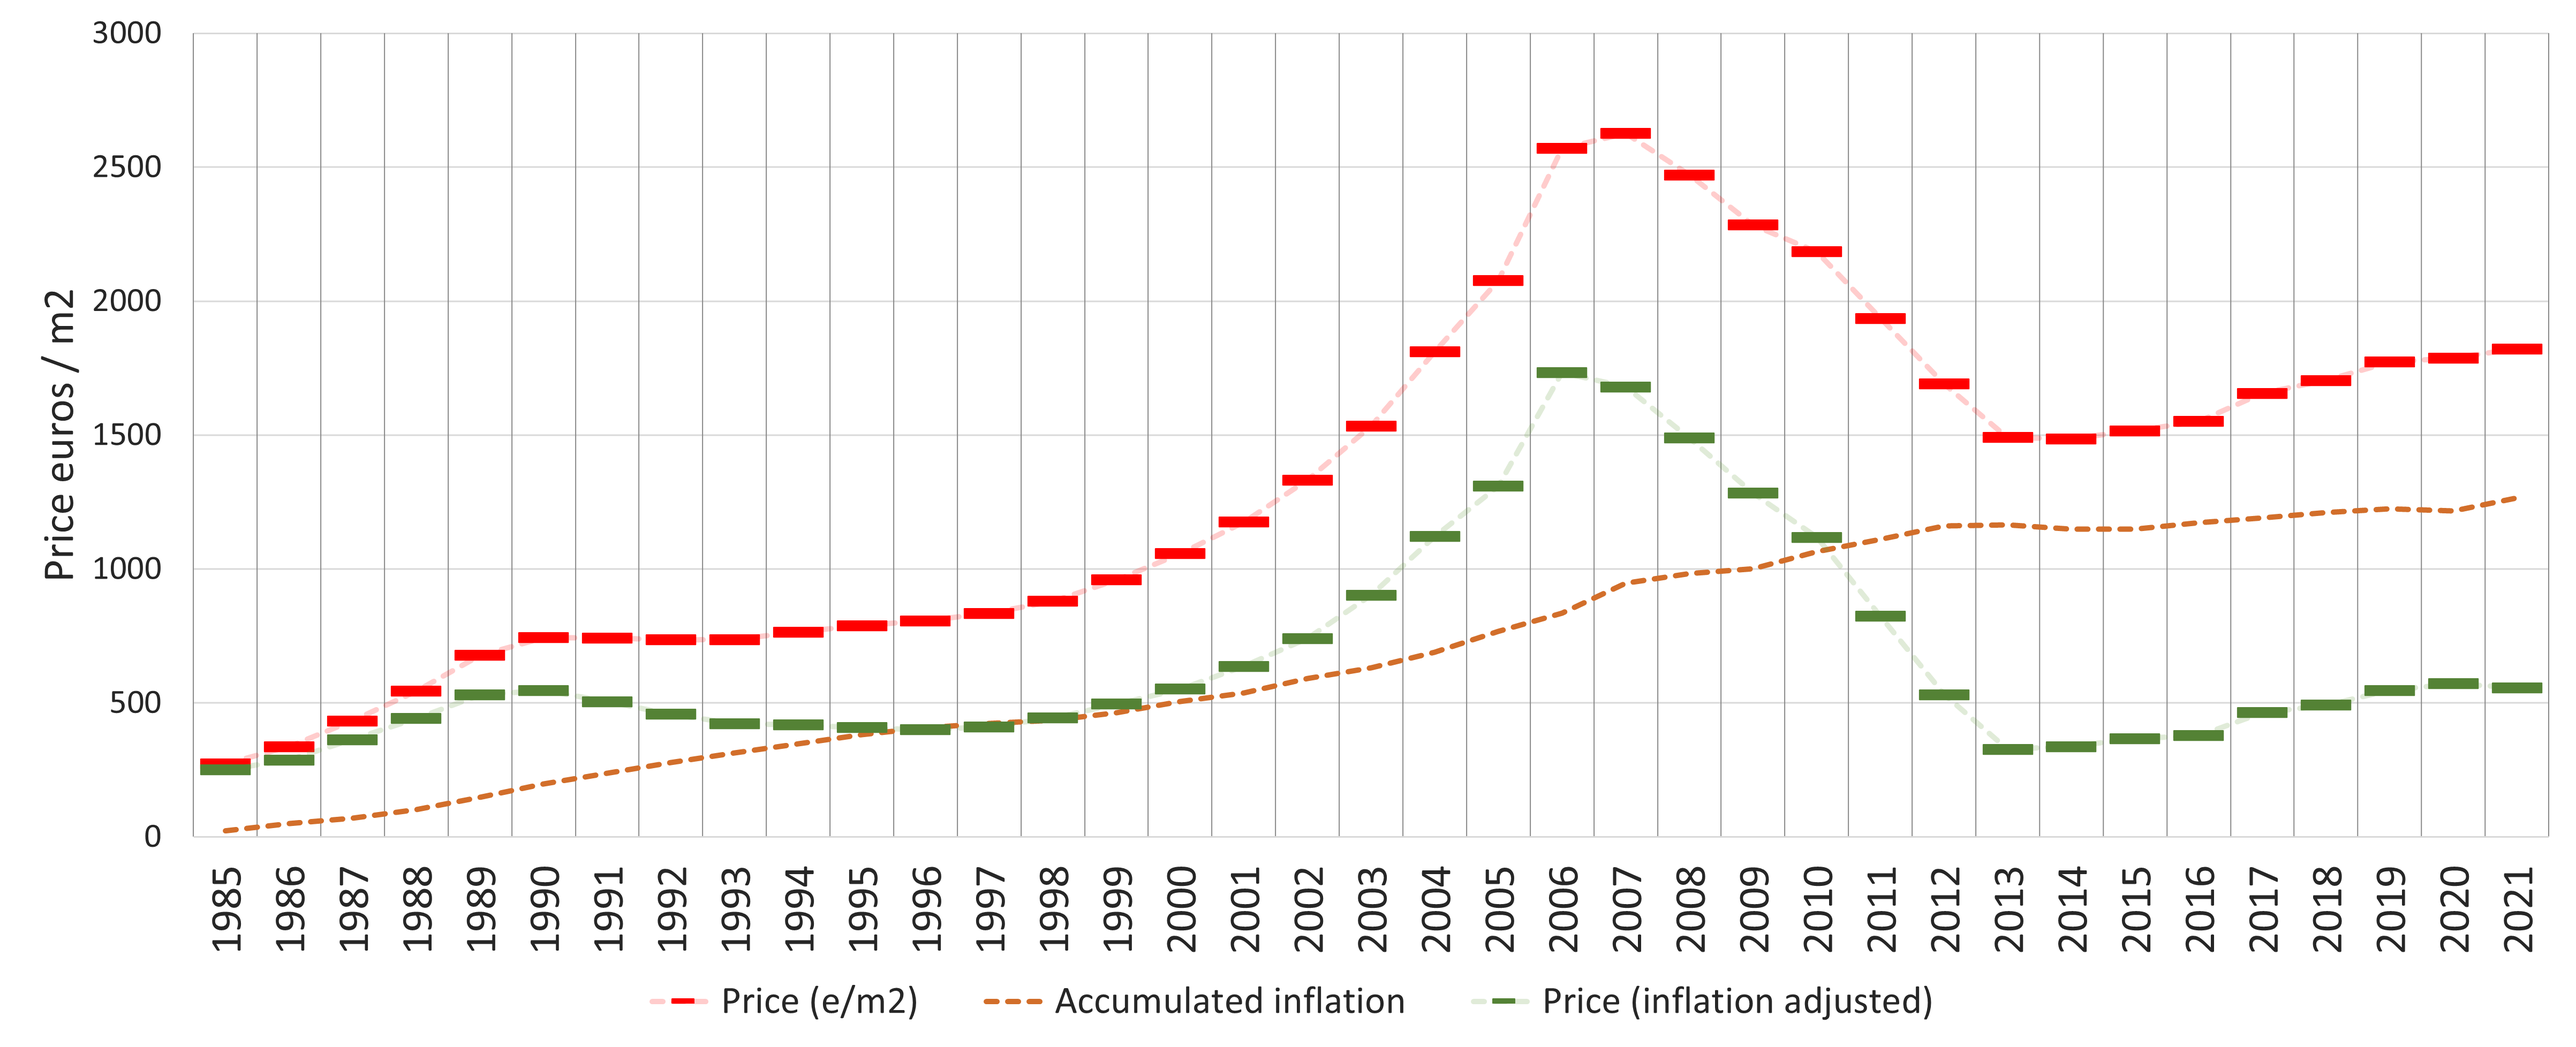
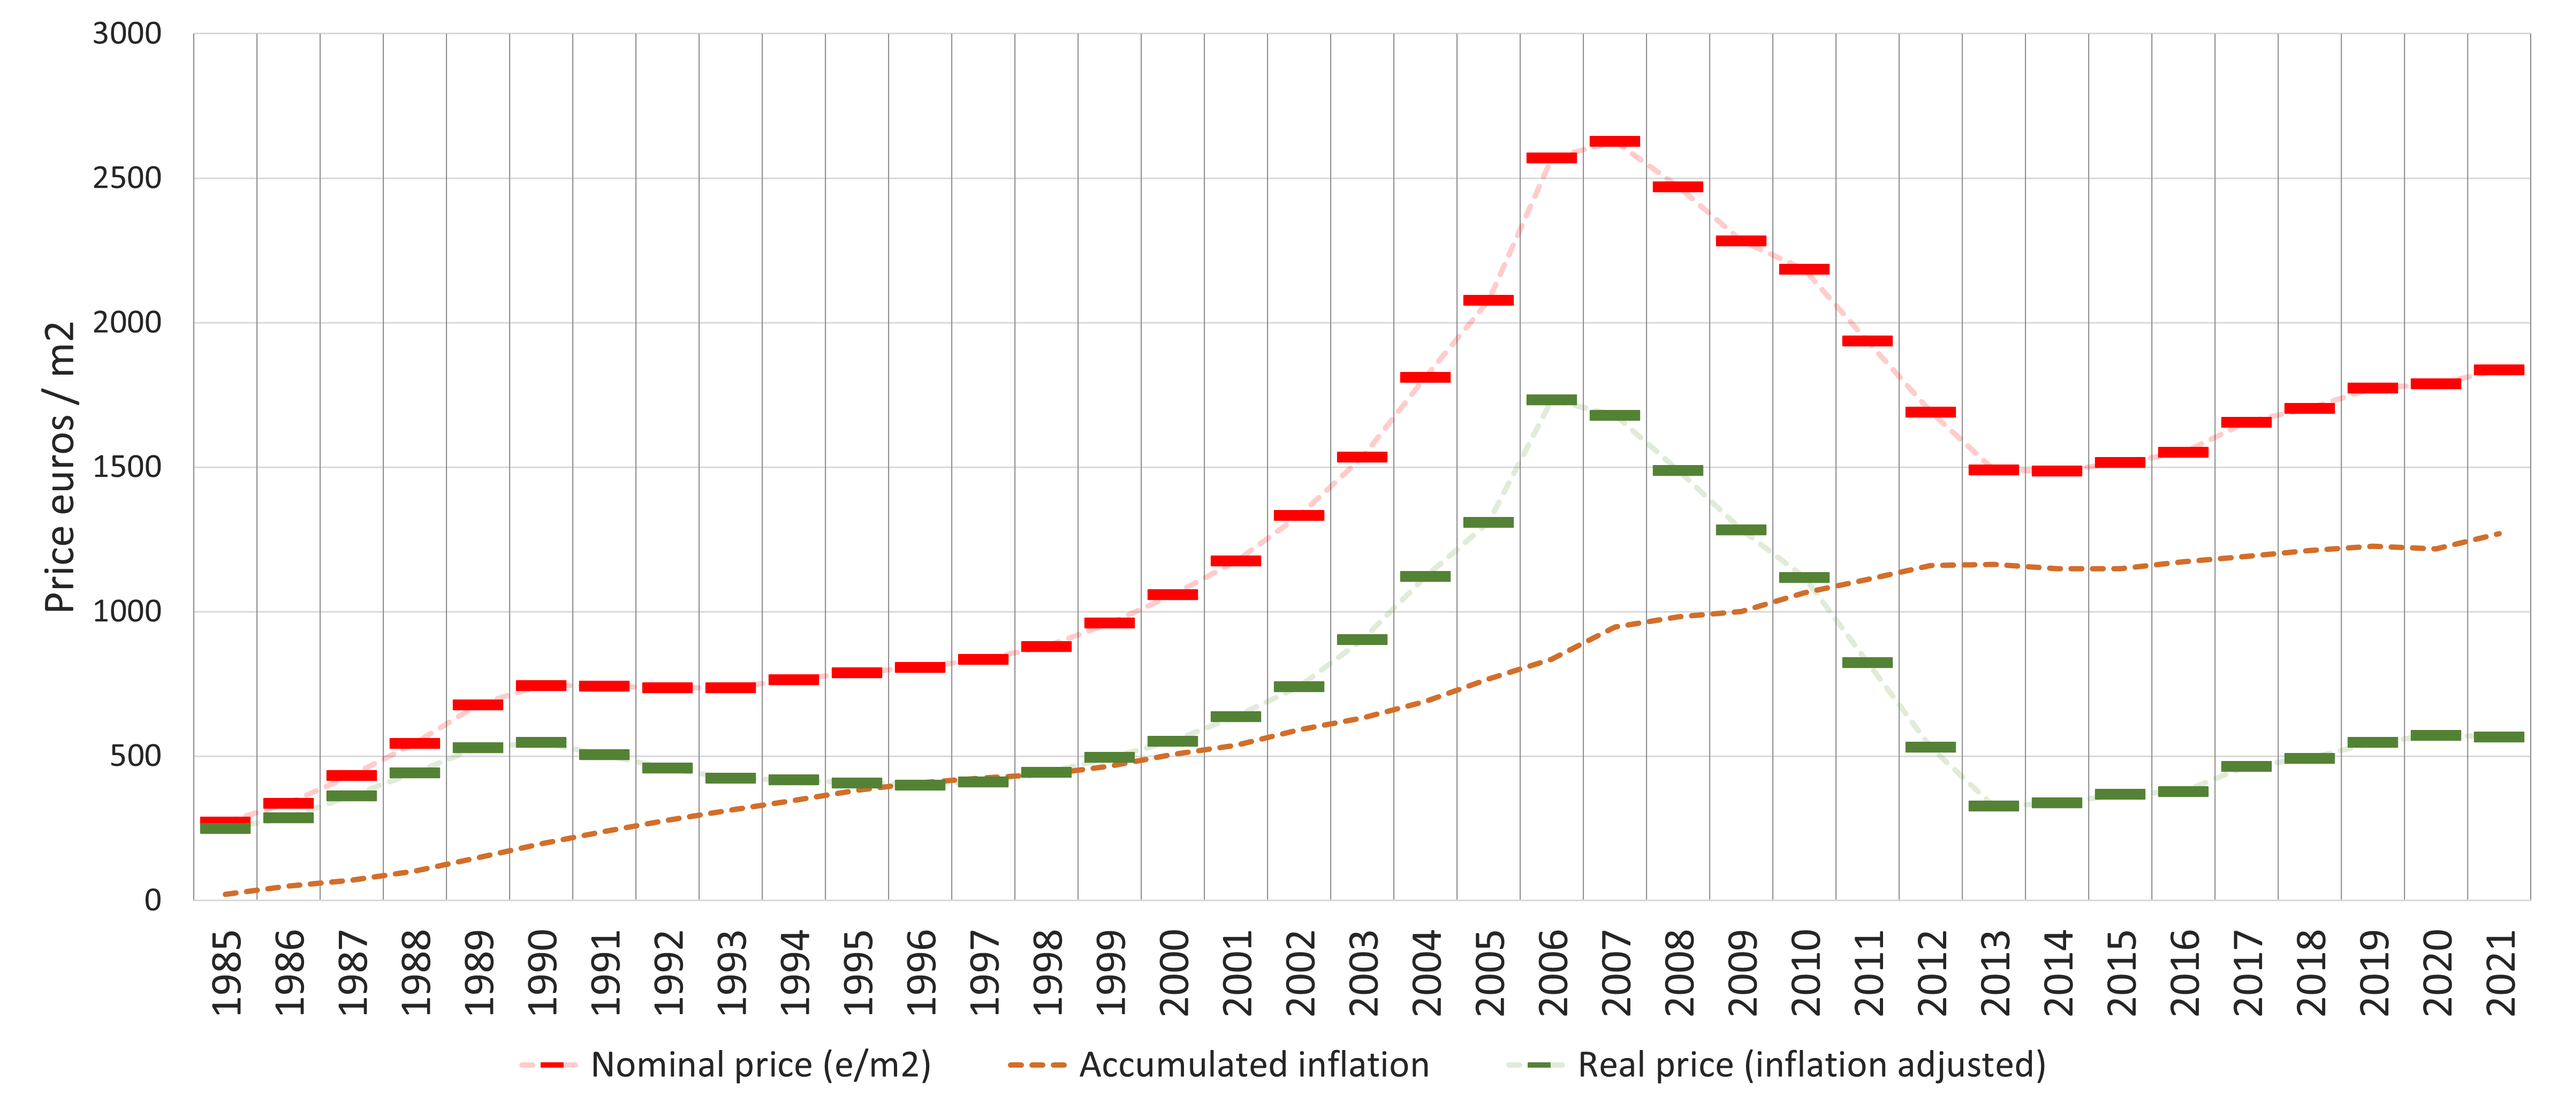
catup

diff --git a/pages/posts/six.md b/pages/posts/six.md
@@ -21,9 +21,9 @@ The model groups together the six variables that I consider essential in order t
 
 - **Observation A**: We can see how inflation has been decreasing. In 1989 it was above 5%, and in 2020 it was negative (the red area is below 0%).
 - **Observation B**: We can see how the population has been decreasing on a yearly basis since 2010. On the other hand, between 2002 and 2006, the population increased a lot, due to an immigration wave.
-- **Observation C**: We can observe that when unemployment increases, the evolution of the price of housing tends to be negative, both taking into account inflation (+i) and not (-i).
-- **Observation D**: It is interesting to note how between 1986 and 1990 the rise in house prices was dominated by high inflation. We know this because the price bar is completely black, price (+i) is overlapping completely the price (-i).
-- **Observation E**: The orange bar, price (-i), informs us of the de/revaluation of housing. For example, in 2013, there was a strong devaluation, and in 2017 a strong revaluation.
+- **Observation C**: We can observe that when unemployment increases, the evolution of the price of housing tends to be negative, both taking into account nominal and real price.
+- **Observation D**: It is interesting to note how between 1986 and 1990 the rise in house prices was dominated by high inflation. We know this because the price bar is completely black, nominal price is overlapping completely the real price.
+- **Observation E**: The orange bar, real price, informs us of the de/revaluation of housing. For example, in 2013, there was a strong devaluation, and in 2017 a strong revaluation.
 
 # Data sources
 

diff --git a/pages/posts/price.md b/pages/posts/price.md
@@ -12,7 +12,7 @@ import Image from 'next/image'
 
 ![Reload chart](/images/preuhistoric.png)
 
-- **House prices in Catalonia since 1985**: in euros per square meter, inflation-adjusted (real value), unadjusted (nominal value), and accumulated inflation.
+- **House prices in Catalonia since 1985**: in euros per square meter, inflation-adjusted (real price), unadjusted (nominal price), and accumulated inflation.
 
 # Interpretation and observations
 
@@ -20,7 +20,7 @@ The chart from above shows the average annual house price in Catalonia. Some bri
 
 - **Observation A**: The price of housing is constantly rising due to inflation, a consequence of current monetary policy.
 - **Observation B**: The uptrend in house prices is however cyclical, with moments of expansion and recession, linked to debt cycles.
-- **Observation C**: The cycles are easily visible if we look at the line representing the price (inflation-adjusted). It allows us to see, for example, the magnitude of the real-estate bubble from the early 2000s.
+- **Observation C**: The cycles are easily visible if we look at the line representing the real price (inflation-adjusted). It allows us to see, for example, the magnitude of the real-estate bubble from the early 2000s.
 
 # Data sources
 

diff --git a/pages/posts/stock.md b/pages/posts/stock.md
@@ -26,7 +26,7 @@ The first chart from above shows the number of new homes built annually since 19
 - **Observation A**: The number of new dwellings remained almost always above 40 thousand dwellings, until the year 2009, when it dropped drastically to 10 thousand new dwellings per year.
 - **Observation B**: The number of dwellings per 1000 inhabitants increased from 1971 to 2000, since then it stagnated. Currently is on decline.
 
-The second chart shows the today existing homes by period of construction. Most of the existing houses in Catalonia today were built between the 1961 and 1980. Finally, if the pace of new construction continues at the rate shown between 2010 and 2020. Between 2021 and 2040, the number of houses to be built will be of 57200.
+The second chart shows the today existing homes by period of construction. Most of the existing houses in Catalonia today were built between the 1961 and 1980. Finally, if the pace of new construction continues at the rate shown between 2010 and 2020. Between 2021 and 2040, the number of houses to be built will be of ≈198.000.
 
 # Data sources
 

diff --git a/pages/posts/volume.md b/pages/posts/volume.md
@@ -17,7 +17,7 @@ import Image from 'next/image'
 
 # Interpretation and observations
 
-The chart from above shows the number of home sales per quarter. The color indicates whether the number of sales is lower than the previous quarter (red) or higher (green). The black line represents the notarial price. Thus, we can see if the number of sales is going up or down, in combination with price movement. Some observations:
+The chart from above shows the number of home sales per quarter. The color indicates whether the number of sales is lower than the previous quarter (red) or higher (green). The black line represents the HPI price. Thus, we can see if the number of sales is going up or down, in combination with price movement. Some observations:
 
 - **Observation A**: Between 2007 and 2013 the number of sales follows a downward trend, chaining 5 red bars in a row.
 - **Observation B**: Between 2014 and 2019 the trend changes and the number of sales rises, chaining 3 consecutive green bars twice.

diff --git a/pages/posts/rent.md b/pages/posts/rent.md
@@ -22,7 +22,7 @@ import Image from 'next/image'
 
 The charts from above show the ratio between the purchase price and the rental price (both in %; and in time, years). In essence, it's an indicator similar to the price-to-earnings ratio (P/E) used in the stock market analysis. It can be interpreted on the following way:
 
-- At 2008 prices, it took 28.8 years to fully recover a house purchase through rental returns, at a 3.9% annual rental return.
+- At 2008 prices, it took 25.8 years to fully recover a house purchase through rental returns, at a 3.9% annual rental return.
 - At 2017 prices, it took 15.3 years to fully recover a house purchase through rental returns, at a 6.5% annual rental return.
 
 # Data sources
